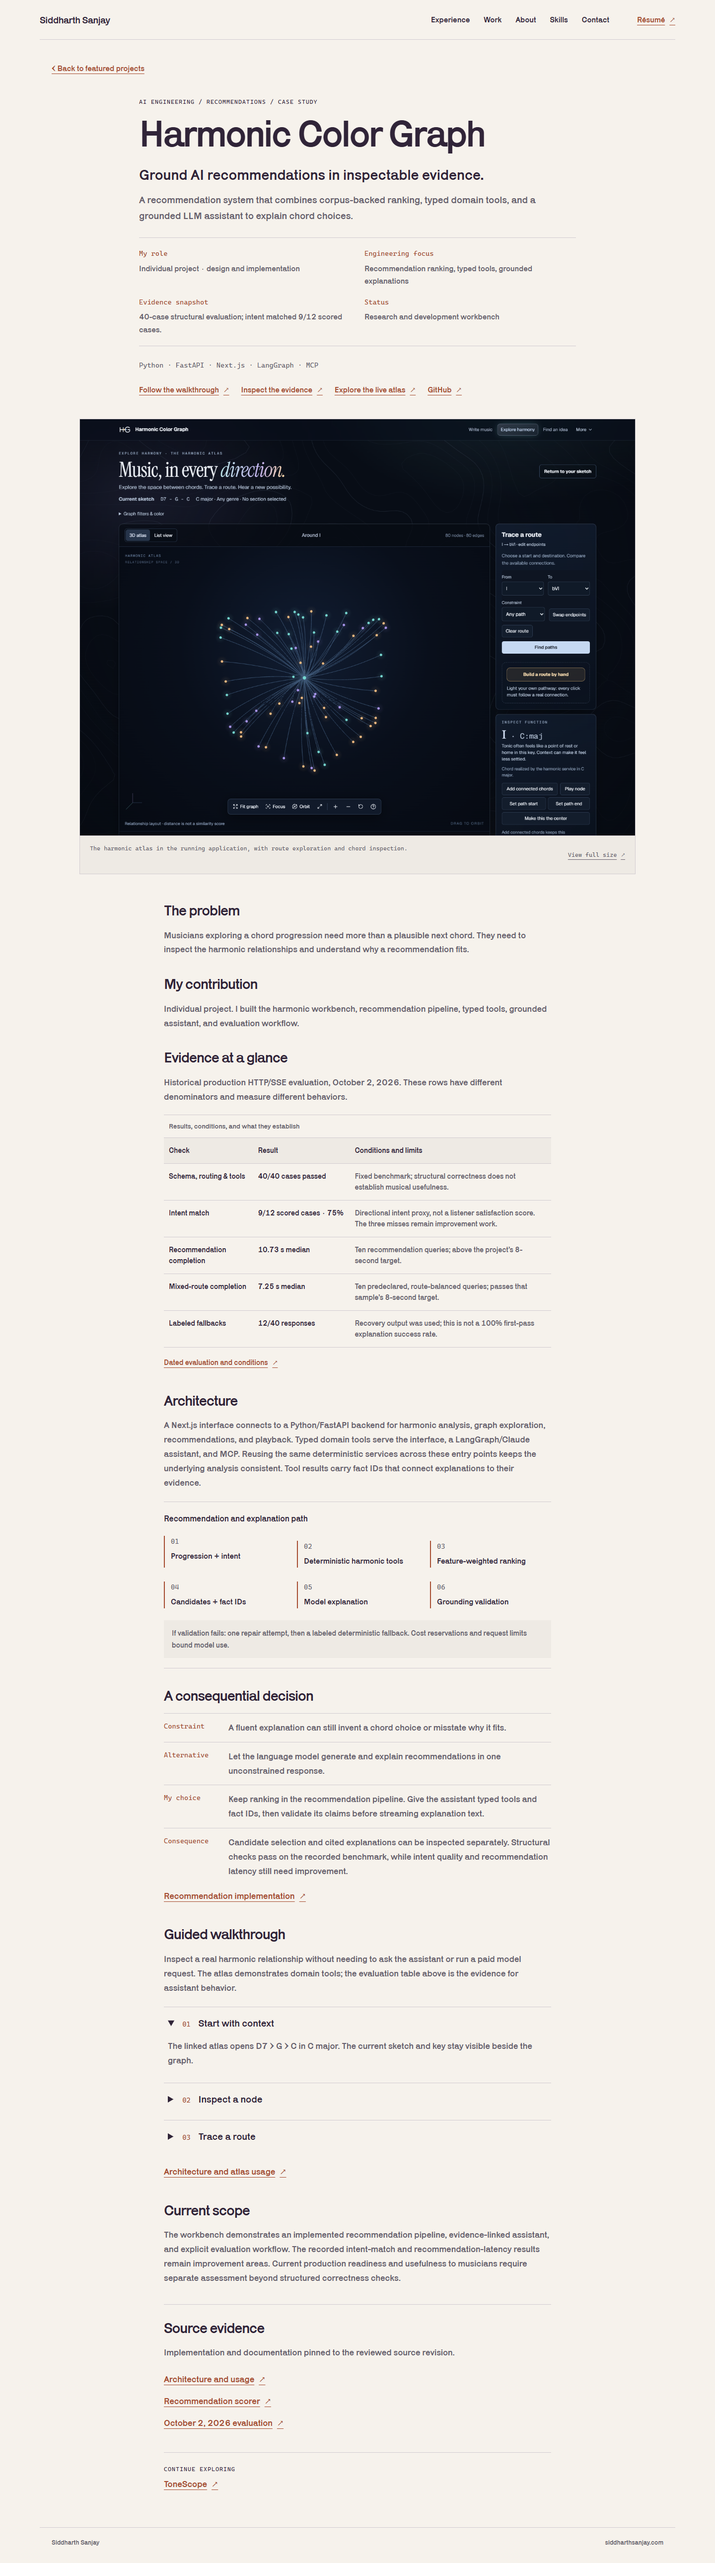
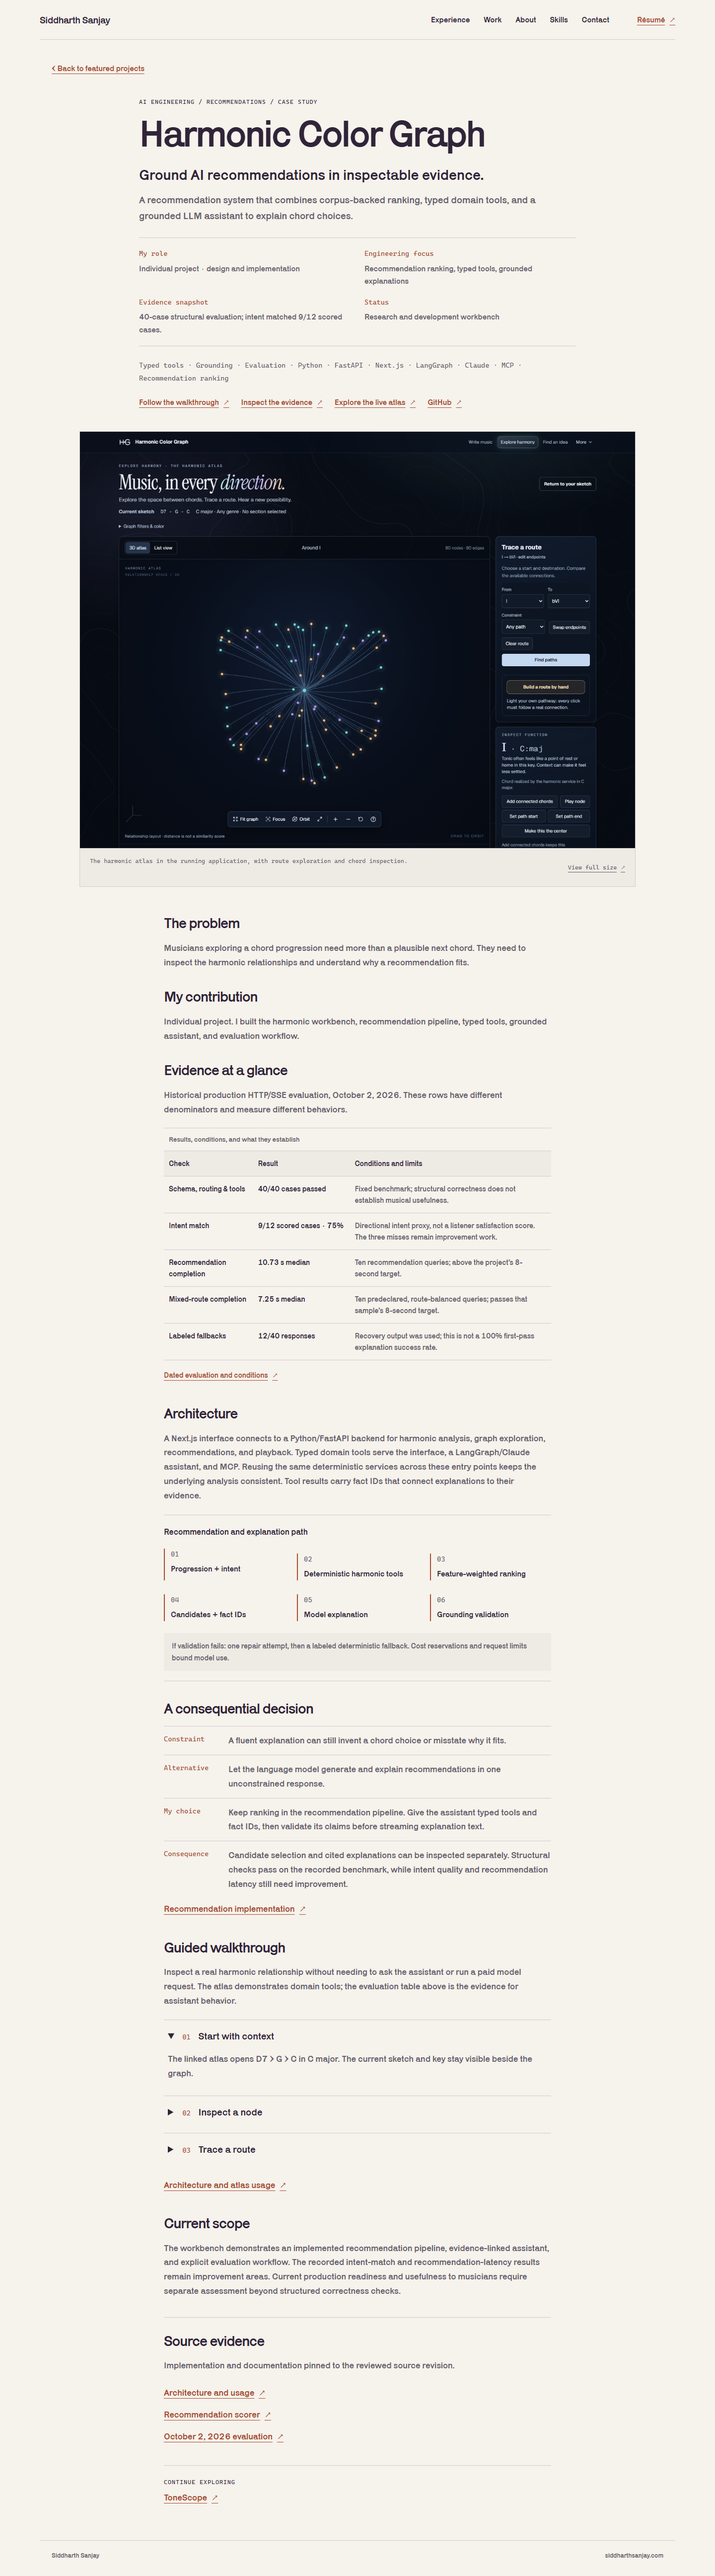
docs: pin observed native walkthrough provenance

Changed region(s): [[0.125, 0.0624, 0.875, 0.9672], [0.5938, 0.8736, 0.6562, 0.9048], [0.6875, 0.8736, 0.7188, 0.9048]]

diff --git a/src/redesign/caseStudies.js b/src/redesign/caseStudies.js
@@ -87,6 +87,7 @@ export const caseStudies = {
         { src: '/assets/walkthroughs/tonescope-undo.webp', alt: 'ToneScope Output restored to 0 dB after applying the 2 dB proposal and undoing it once.', caption: 'After Apply (+2 dB) and one Undo: Output is 0 dB again, with the original native controls restored.' },
       ],
       source: ['Actual embedded assistant flow', 'tests/ui/embedded-native.mjs'],
+      captureSource: 'https://github.com/siddsan7/Portfolio/blob/5d259cfe1402d523250df6a57ea63b0932fb72c9/docs/visuals/tonescope-walkthrough-capture.md',
     },
   },
   'truckerpath-dispatcher-os': {

diff --git a/scripts/check-static.js b/scripts/check-static.js
@@ -123,6 +123,8 @@ try {
       check(html.includes(heading), `${project.name}: ${heading} in raw HTML`)
     check(html.includes(`blob/${project.caseStudy.revision}/`), `${project.name}: evidence links pin the reviewed revision`)
     check(html.includes('class="architecture-flow"'), `${project.name}: architecture flow without JavaScript`)
+    if (project.caseStudy.walkthrough.captureSource)
+      check(html.includes(project.caseStudy.walkthrough.captureSource), `${project.name}: actual capture provenance is linked separately`)
   }
   for (const project of projects)
     check(

diff --git a/src/redesign/CaseStudy.jsx b/src/redesign/CaseStudy.jsx
@@ -140,6 +140,7 @@ export default function CaseStudy({ project, nextProject }) {
           </ol>
           {detail.walkthrough.calculator && <NetCalculator />}
           <SourceLink project={project} source={detail.walkthrough.source} />
+          {detail.walkthrough.captureSource && <ArrowLink href={detail.walkthrough.captureSource}>Capture conditions and observations</ArrowLink>}
         </section>
         <section><h2>Current scope</h2><p>{scope}</p></section>
         <section className="sources">

diff --git a/docs/hiring-refresh.md b/docs/hiring-refresh.md
@@ -52,7 +52,7 @@ These are substantive evidence gaps, not permission to fabricate metrics or bloc
 - Fresh hiring reviewer: would interview for early-career applied-AI roles; no blocking copy finding. Higher-seniority and company-impact gaps remain owner evidence requests above. Corrected the Dispatcher walkthrough to demonstrate its actual cost calculation rather than imply displayed risk flags. Updated the stale verification report.
 - Fresh frontend reviewer: no material blocker after visible calculator ranges/precision, field errors and mobile table-scroll hint. Source and current renders reviewed independently; separate browser launch failed in sandbox, so independent interaction testing is not claimed.
 - Fresh evidence reviewer: all 17 distinct source file paths verified at pinned commits; evaluation denominators, latency medians, authored development results and deterministic formula confirmed. Narrowed copilot fallback wording to the checks actually implemented. Actual ToneScope capture receives a separate immutable Portfolio provenance link, preserving the upstream test citation.
-- Main verification: lint/build; 217 static contracts; five-route preview indexing/production restore; 25 responsive cases; all five routes at 200% text/320px; keyboard/history/reduced motion/no-JS; native details/full-size captures; calculator formula, changed values, missing/negative/range/precision rejection, field error identification, reset and Enter; 12 axe scans with zero violations. PDF: two pages, 46 source text items, seven canonical/contact links.
+- Main verification: lint/build; 218 static contracts; five-route preview indexing/production restore; 25 responsive cases; all five routes at 200% text/320px; keyboard/history/reduced motion/no-JS; native details/full-size captures; calculator formula, changed values, missing/negative/range/precision rejection, field error identification, reset and Enter; 12 axe scans with zero violations. PDF: two pages, 46 source text items, seven canonical/contact links.
 - Calculator regression: native reset resets the output before asynchronous validation. Changed reset recomputation to run after the default action; checks wait for both output and cleared field error, then verify original payout. Both original failure and successful final run were observed.
 - Mobile LCP: three unchanged default-mobile cold runs 1657/2259/1656 ms, all below 2500 ms; CLS 0; performance 100/98/100. No claims about field p75 performance.
 - All 18 unrelated legacy files match their starting SHA256 values. Useful native capture snapshots/scripts are preserved in ignored `output/tonescope-native-audit`; capture provenance is committed under `docs/visuals`.

diff --git a/.brain/working-state.md b/.brain/working-state.md
@@ -24,7 +24,7 @@ Dispatcher commit0a4eb4e implements eight-factor deterministic ranking, seven au
 
 Fresh hiring reviewer would interview for early-career applied AI; no blocking copy finding. Frontend reviewer inspected source/fresh captures and found no material blocker; separate browser launch failed in sandbox, so its interaction verification is not independent. Evidence reviewer checked all17 distinct source paths and metrics at immutable commits. Findings addressed: actual calculation scope, narrow provider-validation wording, visible input ranges/precision, field errors/reset, mobile table-scroll hint, current verification narrative, and separate capture provenance citation.
 
-Main checks: lint/build;217 static assertions; preview noindex/production restore;25 route-width layouts; all5 routes at200% text/320px; native details/fullsize captures; calculator source/change/error/range/precision/reset/Enter; keyboard/history/reduced-motion/no-JS;12 axe scans with zero violations; two-page PDF46 text items/seven links. Final LCP and clean-tree results belong in docs/verification/report.md and docs/hiring-refresh.md after completion.
+Main checks: lint/build;218 static assertions; preview noindex/production restore;25 route-width layouts; all5 routes at200% text/320px; native details/fullsize captures; calculator source/change/error/range/precision/reset/Enter; keyboard/history/reduced-motion/no-JS;12 axe scans with zero violations; two-page PDF46 text items/seven links. Final LCP and clean-tree results belong in docs/verification/report.md and docs/hiring-refresh.md after completion.
 
 A browser regression caught reset timing: reset event default action occurs after listeners/microtasks. Deferred update must run after native reset; test waits for the validation state as well as the output (output resets natively first). No weakened checks.
 

diff --git a/docs/verification/report.md b/docs/verification/report.md
@@ -11,7 +11,7 @@ Metrics retain their actual denominators and dates. ToneScope's authored determi
 ## Current checks
 
 - Lint and production build pass. Five complete public HTML routes, six noindex archives and a genuine 404 are emitted. Essential content is readable without JavaScript; only navigation and the optional calculator are enhanced.
-- Static checker: 217 assertions across five public routes. Includes status/refresh, links/assets, factual HTML, canonical/social/schema consistency, archives, sitemap/robots, PDF policy, aliases, query-preserving redirects, case-study structure, Experience order and immutable evidence links.
+- Static checker: 218 assertions across five public routes. Includes status/refresh, links/assets, factual HTML, canonical/social/schema consistency, archives, sitemap/robots, PDF policy, aliases, query-preserving redirects, case-study structure, Experience order and immutable evidence links.
 - Preview checker: all five routes are noindex in preview mode, then production output is restored.
 - Browser matrix: 25 route/width combinations at 320/390/768/1024/1440px. No page overflow. All five routes also pass 200% text enlargement at 320 CSS pixels; evidence tables scroll inside labeled, focusable regions.
 - Keyboard: 25 reachable homepage controls with visible focus, skip link and native anchor/history behavior. Passive navigation now includes Experience. Reduced-motion behavior and no-JavaScript navigation remain checked.
